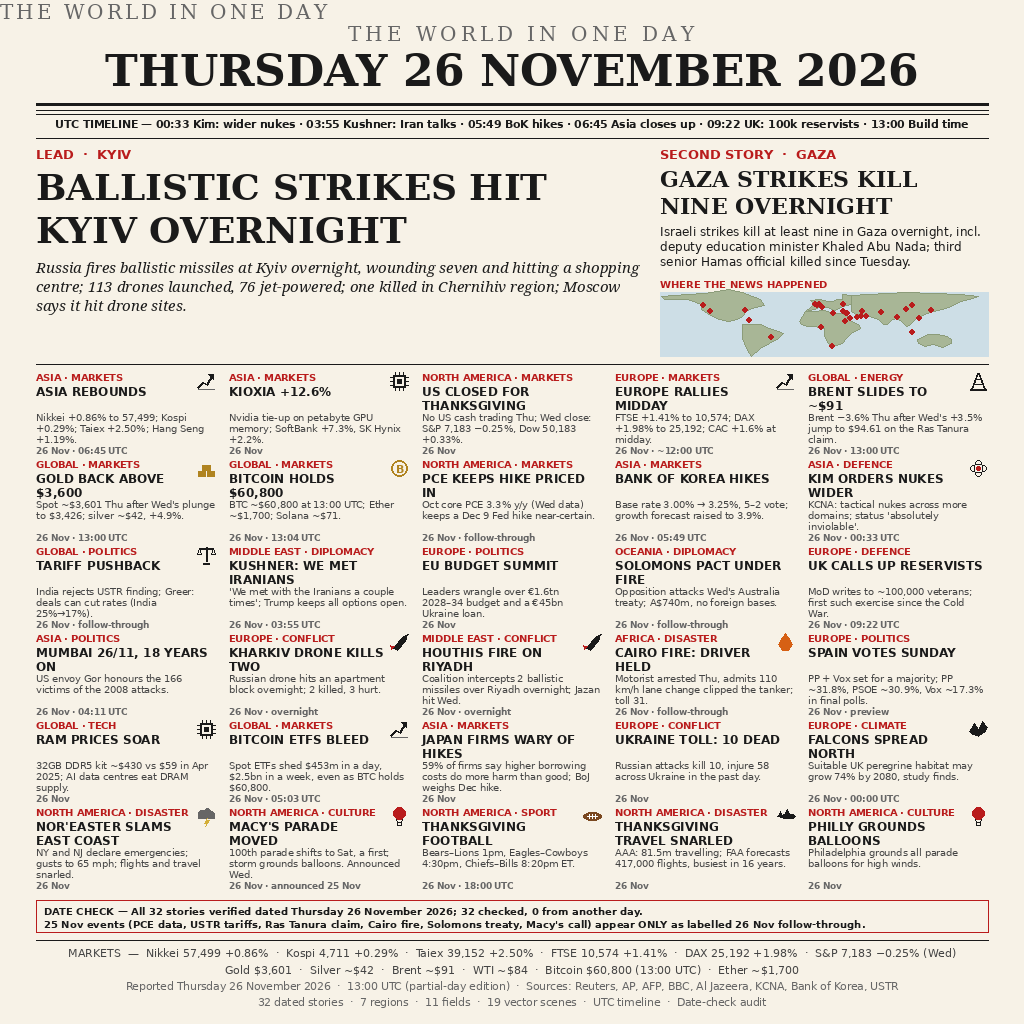
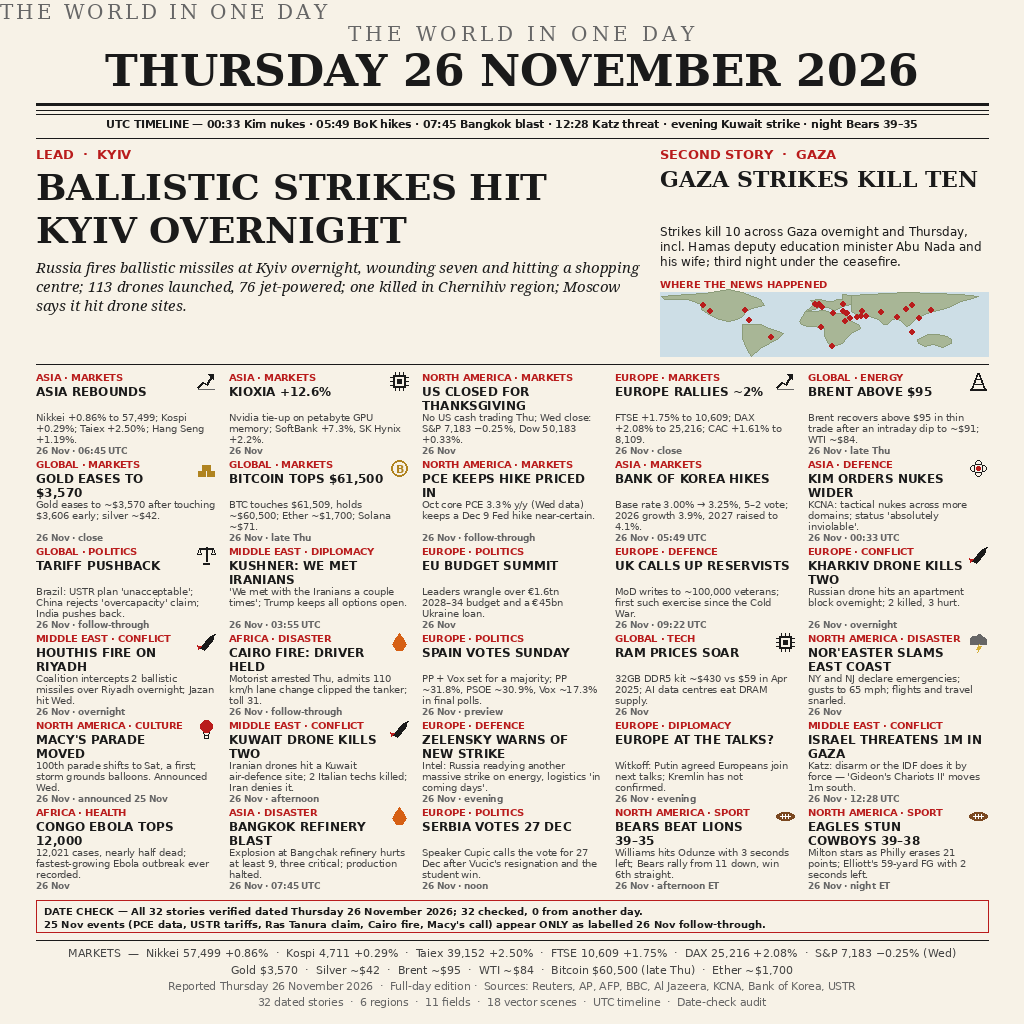
news-image-20261126 v2: full-day edition, 32 stories, lead Kyiv ballistic strikes, Gaza toll ten

diff --git a/README.md b/README.md
@@ -4,9 +4,10 @@
 
 # Thursday 26 November 2026 in one picture
 
-**32 dated stories, 7 regions, 11 fields, 19 vector scenes, UTC timeline
+**32 dated stories, 6 regions, 11 fields, 18 vector scenes, UTC timeline
 & date-check audit** — a newspaper front page summing up Thursday
-26 November 2026. Partial-day edition, built 13:00 UTC.
+26 November 2026. Full-day edition (v2, supersedes the v1 partial-day
+edition built 13:00 UTC).
 
 Bounty: https://make.fun/bounty/news-image-20261126
 
@@ -19,10 +20,10 @@ killed in Chernihiv region; Moscow says it hit drone sites.
 
 ## Second story
 
-**GAZA STRIKES KILL NINE OVERNIGHT** (Gaza, Middle East · Conflict)
-— Israeli strikes kill at least nine in Gaza overnight, incl. deputy
-education minister Khaled Abu Nada; third senior Hamas official killed
-since Tuesday.
+**GAZA STRIKES KILL TEN** (Gaza, Middle East · Conflict)
+— Strikes kill 10 across Gaza overnight and Thursday, incl. Hamas
+deputy education minister Abu Nada and his wife; third night under the
+ceasefire.
 
 ## The 30 stories in the grid
 
@@ -32,109 +33,117 @@ since Tuesday.
    memory; SoftBank +7.3%, SK Hynix +2.2%. — 26 Nov
 3. **US CLOSED FOR THANKSGIVING** (North America · Markets) — No US cash
    trading Thu; Wed close: S&P 7,183 −0.25%, Dow 50,183 +0.33%. — 26 Nov
-4. **EUROPE RALLIES MIDDAY** (Europe · Markets) — FTSE +1.41% to 10,574;
-   DAX +1.98% to 25,192; CAC +1.6% at midday. — 26 Nov · ~12:00 UTC
-5. **BRENT SLIDES TO ~$91** (Global · Energy) — Brent −3.6% Thu after
-   Wed's +3.5% jump to $94.61 on the Ras Tanura claim. — 26 Nov · 13:00 UTC
-6. **GOLD BACK ABOVE $3,600** (Global · Markets) — Spot ~$3,601 Thu
-   after Wed's plunge to $3,426; silver ~$42, +4.9%. — 26 Nov · 13:00 UTC
-7. **BITCOIN HOLDS $60,800** (Global · Markets) — BTC ~$60,800 at 13:00
-   UTC; Ether ~$1,700; Solana ~$71. — 26 Nov · 13:04 UTC
+4. **EUROPE RALLIES ~2%** (Europe · Markets) — FTSE +1.75% to 10,609;
+   DAX +2.08% to 25,216; CAC +1.61% to 8,109. — 26 Nov · close
+5. **BRENT ABOVE $95** (Global · Energy) — Brent recovers above $95 in
+   thin trade after an intraday dip to ~$91; WTI ~$84. — 26 Nov ·
+   late Thu
+6. **GOLD EASES TO $3,570** (Global · Markets) — Gold eases to ~$3,570
+   after touching $3,606 early; silver ~$42. — 26 Nov · close
+7. **BITCOIN TOPS $61,500** (Global · Markets) — BTC touches $61,509,
+   holds ~$60,500; Ether ~$1,700; Solana ~$71. — 26 Nov · late Thu
 8. **PCE KEEPS HIKE PRICED IN** (North America · Markets) — Oct core PCE
    3.3% y/y (Wed data) keeps a Dec 9 Fed hike near-certain. — 26 Nov ·
    follow-through
 9. **BANK OF KOREA HIKES** (Asia · Markets) — Base rate 3.00% → 3.25%,
-   5–2 vote; growth forecast raised to 3.9%. — 26 Nov · 05:49 UTC
+   5–2 vote; 2026 growth 3.9%, 2027 raised to 4.1%. — 26 Nov · 05:49 UTC
 10. **KIM ORDERS NUKES WIDER** (Asia · Defence) — KCNA: tactical nukes
     across more domains; status 'absolutely inviolable'. — 26 Nov ·
     00:33 UTC
-11. **TARIFF PUSHBACK** (Global · Politics) — India rejects USTR finding;
-    Greer: deals can cut rates (India 25%→17%). — 26 Nov ·
-    follow-through
+11. **TARIFF PUSHBACK** (Global · Politics) — Brazil: USTR plan
+    'unacceptable'; China rejects 'overcapacity' claim; India pushes
+    back. — 26 Nov · follow-through
 12. **KUSHNER: WE MET IRANIANS** (Middle East · Diplomacy) — 'We met
     with the Iranians a couple times'; Trump keeps all options open. —
     26 Nov · 03:55 UTC
 13. **EU BUDGET SUMMIT** (Europe · Politics) — Leaders wrangle over
     €1.6tn 2028–34 budget and a €45bn Ukraine loan. — 26 Nov
-14. **SOLOMONS PACT UNDER FIRE** (Oceania · Diplomacy) — Opposition
-    attacks Wed's Australia treaty; A$740m, no foreign bases. — 26 Nov ·
-    follow-through
-15. **UK CALLS UP RESERVISTS** (Europe · Defence) — MoD writes to
+14. **UK CALLS UP RESERVISTS** (Europe · Defence) — MoD writes to
     ~100,000 veterans; first such exercise since the Cold War. — 26 Nov ·
     09:22 UTC
-16. **MUMBAI 26/11, 18 YEARS ON** (Asia · Politics) — US envoy Gor
-    honours the 166 victims of the 2008 attacks. — 26 Nov · 04:11 UTC
-17. **KHARKIV DRONE KILLS TWO** (Europe · Conflict) — Russian drone hits
+15. **KHARKIV DRONE KILLS TWO** (Europe · Conflict) — Russian drone hits
     an apartment block overnight; 2 killed, 3 hurt. — 26 Nov · overnight
-18. **HOUTHIS FIRE ON RIYADH** (Middle East · Conflict) — Coalition
+16. **HOUTHIS FIRE ON RIYADH** (Middle East · Conflict) — Coalition
     intercepts 2 ballistic missiles over Riyadh overnight; Jazan hit Wed.
     — 26 Nov · overnight
-19. **CAIRO FIRE: DRIVER HELD** (Africa · Disaster) — Motorist arrested
+17. **CAIRO FIRE: DRIVER HELD** (Africa · Disaster) — Motorist arrested
     Thu, admits 110 km/h lane change clipped the tanker; toll 31. —
     26 Nov · follow-through
-20. **SPAIN VOTES SUNDAY** (Europe · Politics) — PP + Vox set for a
+18. **SPAIN VOTES SUNDAY** (Europe · Politics) — PP + Vox set for a
     majority; PP ~31.8%, PSOE ~30.9%, Vox ~17.3% in final polls. — 26 Nov ·
     preview
-21. **RAM PRICES SOAR** (Global · Tech) — 32GB DDR5 kit ~$430 vs $59 in
+19. **RAM PRICES SOAR** (Global · Tech) — 32GB DDR5 kit ~$430 vs $59 in
     Apr 2025; AI data centres eat DRAM supply. — 26 Nov
-22. **BITCOIN ETFS BLEED** (Global · Markets) — Spot ETFs shed $453m in a
-    day, $2.5bn in a week, even as BTC holds $60,800. — 26 Nov · 05:03 UTC
-23. **JAPAN FIRMS WARY OF HIKES** (Asia · Markets) — 59% of firms say
-    higher borrowing costs do more harm than good; BoJ weighs Dec hike. —
-    26 Nov
-24. **UKRAINE TOLL: 10 DEAD** (Europe · Conflict) — Russian attacks kill
-    10, injure 58 across Ukraine in the past day. — 26 Nov
-25. **FALCONS SPREAD NORTH** (Europe · Climate) — Suitable UK peregrine
-    habitat may grow 74% by 2080, study finds. — 26 Nov · 00:00 UTC
-26. **NOR'EASTER SLAMS EAST COAST** (North America · Disaster) — NY and
+20. **NOR'EASTER SLAMS EAST COAST** (North America · Disaster) — NY and
     NJ declare emergencies; gusts to 65 mph; flights and travel snarled. —
     26 Nov
-27. **MACY'S PARADE MOVED** (North America · Culture) — 100th parade
+21. **MACY'S PARADE MOVED** (North America · Culture) — 100th parade
     shifts to Sat, a first; storm grounds balloons. Announced Wed. —
     26 Nov · announced 25 Nov
-28. **THANKSGIVING FOOTBALL** (North America · Sport) — Bears–Lions 1pm,
-    Eagles–Cowboys 4:30pm, Chiefs–Bills 8:20pm ET. — 26 Nov · 18:00 UTC
-29. **THANKSGIVING TRAVEL SNARLED** (North America · Disaster) — AAA:
-    81.5m travelling; FAA forecasts 417,000 flights, busiest in 16 years.
-    — 26 Nov
-30. **PHILLY GROUNDS BALLOONS** (North America · Culture) —
-    Philadelphia grounds all parade balloons for high winds. — 26 Nov
+22. **KUWAIT DRONE KILLS TWO** (Middle East · Conflict) — Iranian drones
+    hit a Kuwait air-defence site; 2 Italian techs killed; Iran denies
+    it. — 26 Nov · afternoon
+23. **ZELENSKY WARNS OF NEW STRIKE** (Europe · Defence) — Intel: Russia
+    readying another massive strike on energy, logistics 'in coming
+    days'. — 26 Nov · evening
+24. **EUROPE AT THE TALKS?** (Europe · Diplomacy) — Witkoff: Putin
+    agreed Europeans join next talks; Kremlin has not confirmed. —
+    26 Nov · evening
+25. **ISRAEL THREATENS 1M IN GAZA** (Middle East · Conflict) — Katz:
+    disarm or the IDF does it by force — 'Gideon's Chariots II' moves 1m
+    south. — 26 Nov · 12:28 UTC
+26. **CONGO EBOLA TOPS 12,000** (Africa · Health) — 12,021 cases, nearly
+    half dead; fastest-growing Ebola outbreak ever recorded. — 26 Nov
+27. **BANGKOK REFINERY BLAST** (Asia · Disaster) — Explosion at Bangchak
+    refinery hurts at least 9, three critical; production halted. —
+    26 Nov · 07:45 UTC
+28. **SERBIA VOTES 27 DEC** (Europe · Politics) — Speaker Cupic calls the
+    vote for 27 Dec after Vucic's resignation and the student win. —
+    26 Nov · noon
+29. **BEARS BEAT LIONS 39–35** (North America · Sport) — Williams hits
+    Odunze with 3 seconds left; Bears rally from 11 down, win 6th
+    straight. — 26 Nov · afternoon ET
+30. **EAGLES STUN COWBOYS 39–38** (North America · Sport) — Milton stars
+    as Philly erases 21 points; Elliott's 59-yard FG with 2 seconds left.
+    — 26 Nov · night ET
 
 ## UTC timeline
 
 - 00:33 — KCNA: Kim orders wider tactical-nuke deployment
-- 03:55 — Kushner confirms talks with Iranian officials
 - 05:49 — Bank of Korea hikes base rate to 3.25%
-- 06:45 — Asia closes higher (Nikkei +0.86%)
-- 09:22 — UK writes to ~100,000 strategic reservists
-- 13:00 — Build time (partial-day edition)
+- 07:45 — Explosion at Bangchak refinery, Bangkok
+- 12:28 — Katz threatens to displace 1m Gaza residents south
+- evening — Iranian drones hit a Kuwait air-defence site
+- night — Bears beat Lions 39–35 (Thanksgiving)
 
 ## Date check
 
 All 32 stories verified dated Thursday 26 November 2026; 32 checked,
 0 from another day. 25 Nov events (PCE data, USTR tariffs, Ras Tanura
-claim, Cairo fire, Solomons treaty, Macy's call) appear ONLY as
-labelled 26 Nov follow-through.
+claim, Cairo fire, Macy's call) appear ONLY as labelled 26 Nov
+follow-through.
 
-Dropped during verification (wrong date, not 26 Nov): the US "leave
-Iran" advisory (issued 24 Nov, reported 25 Nov), the Cartagena
-supermarket rescue (25 Nov), the Character.AI attorneys-general filing
-(23 Nov), the Microsoft ARTEX report (25 Nov), the EU Academy breach
-confirmation (23 Nov), and the New York chatbot law (28 Oct).
+Dropped during the v2 refresh (no verified final score at build time):
+Chiefs vs Bills (Thanksgiving night game, still in progress when the
+image was rendered — no score guessed). Dropped vs v1 (weaker stories,
+replaced by verified full-day news): Japan firms wary of hikes, Ukraine
+toll: 10 dead, Falcons spread north, Thanksgiving travel snarled, Philly
+grounds balloons, Solomons pact, Mumbai 26/11, Thanksgiving football
+preview (replaced by the two verified results), Bitcoin ETFs bleed
+(duplicates the Bitcoin story).
 
 ## Markets (footer strip)
 
 Nikkei 57,499 +0.86% · Kospi 4,711 +0.29% · Taiex 39,152 +2.50% · FTSE
-10,574 +1.41% (midday) · DAX 25,192 +1.98% (midday) · S&P 7,183 −0.25%
-(Wed) · Gold $3,601 · Silver ~$42 · Brent ~$91 · WTI ~$84 · Bitcoin
-$60,800 (13:00 UTC) · Ether ~$1,700. Europe figures are midday
-readings — markets were still open at the 13:00 UTC build time.
+10,609 +1.75% · DAX 25,216 +2.08% · S&P 7,183 −0.25% (Wed) · Gold $3,570
+· Silver ~$42 · Brent ~$95 · WTI ~$84 · Bitcoin $60,500 (late Thu) ·
+Ether ~$1,700.
 
 ## How this image was made
 
 `entry.png` (1024×1024, deterministic) was rendered by a Python/PIL
 program from the story list above — every story dated, grouped by
-region and field, with a world map, 19 code-drawn vector scenes, a UTC
+region and field, with a world map, 18 code-drawn vector scenes, a UTC
 timeline strip and a date-check audit block. `main.py` copies the
 committed `entry.png` to `$MAKEFUN_OUTPUT_DIR`.
 
